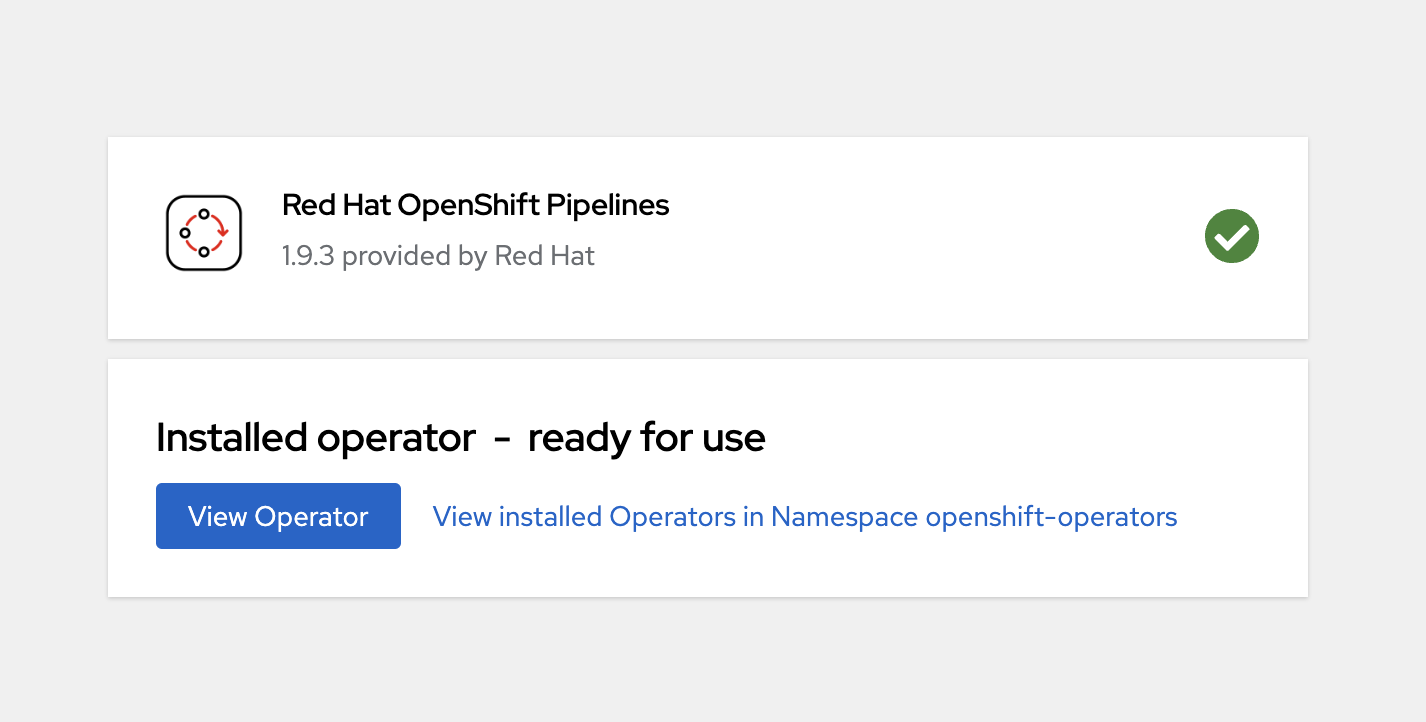
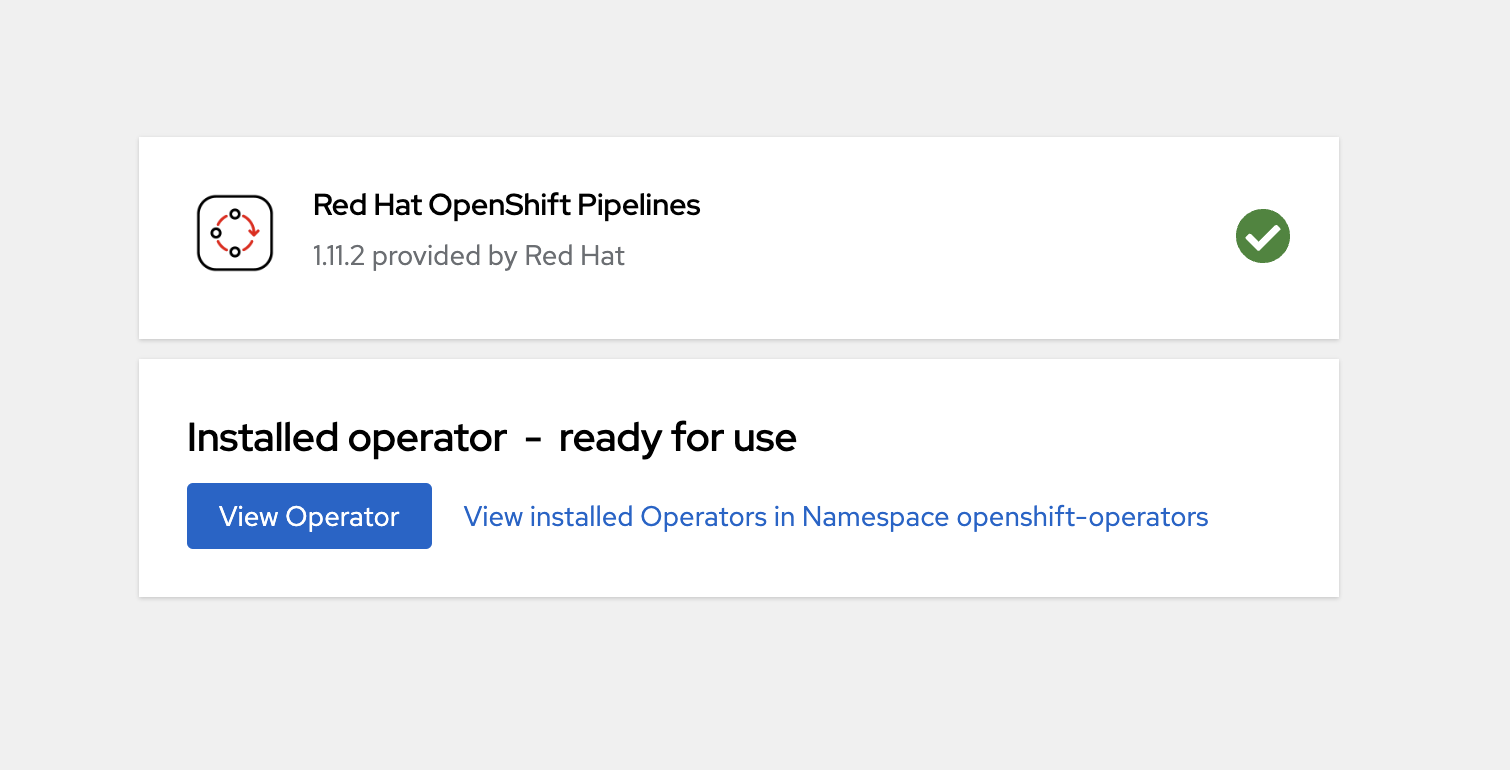
Added new pipelines update channel screenshots

diff --git a/instruqt-tracks/gitops-pipelines/01-01install-op/assignment.md b/instruqt-tracks/gitops-pipelines/01-01install-op/assignment.md
@@ -115,7 +115,7 @@ Use the _Filter by keyword_ box to search for `Red Hat OpenShift Pipelines` in t
 
 Read the brief description of the Operator on the _Red Hat OpenShift Pipelines_ page. Click _Install_.
 
-Select _latest_ for the Update channel, _All namespaces on the cluster (default)_ for installation mode, & _Automatic_ for the approval strategy. Click Install!
+Select _pipelines-1.11_ for the Update channel, _All namespaces on the cluster (default)_ for installation mode, & _Automatic_ for the approval strategy. Click Install!
 
 ![Web Console Login](https://raw.githubusercontent.com/openshift-instruqt/instruqt/master/assets/middleware/pipelines/web-console-settings.png)
 
